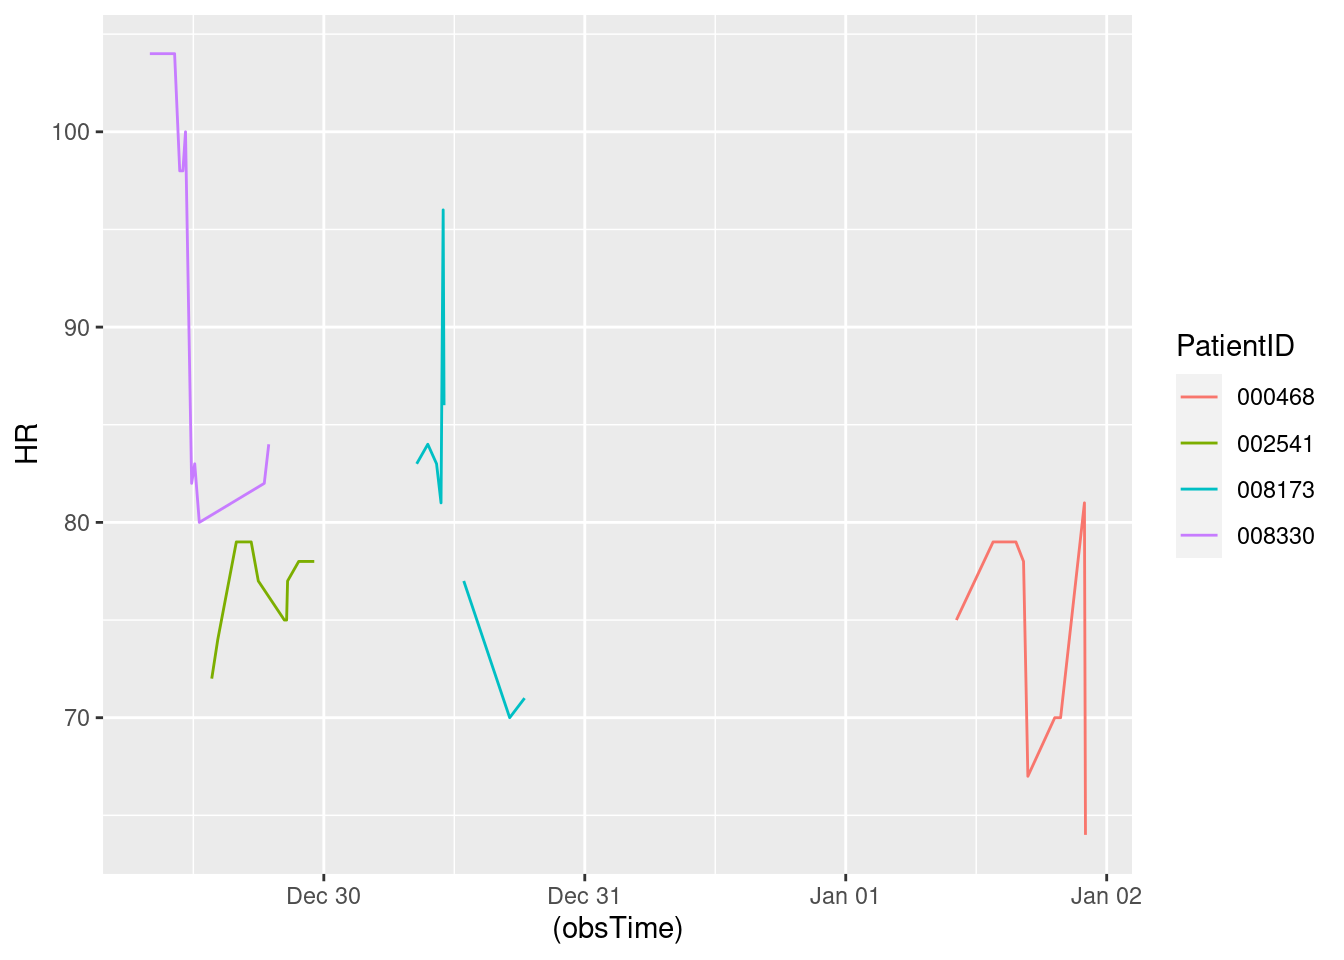
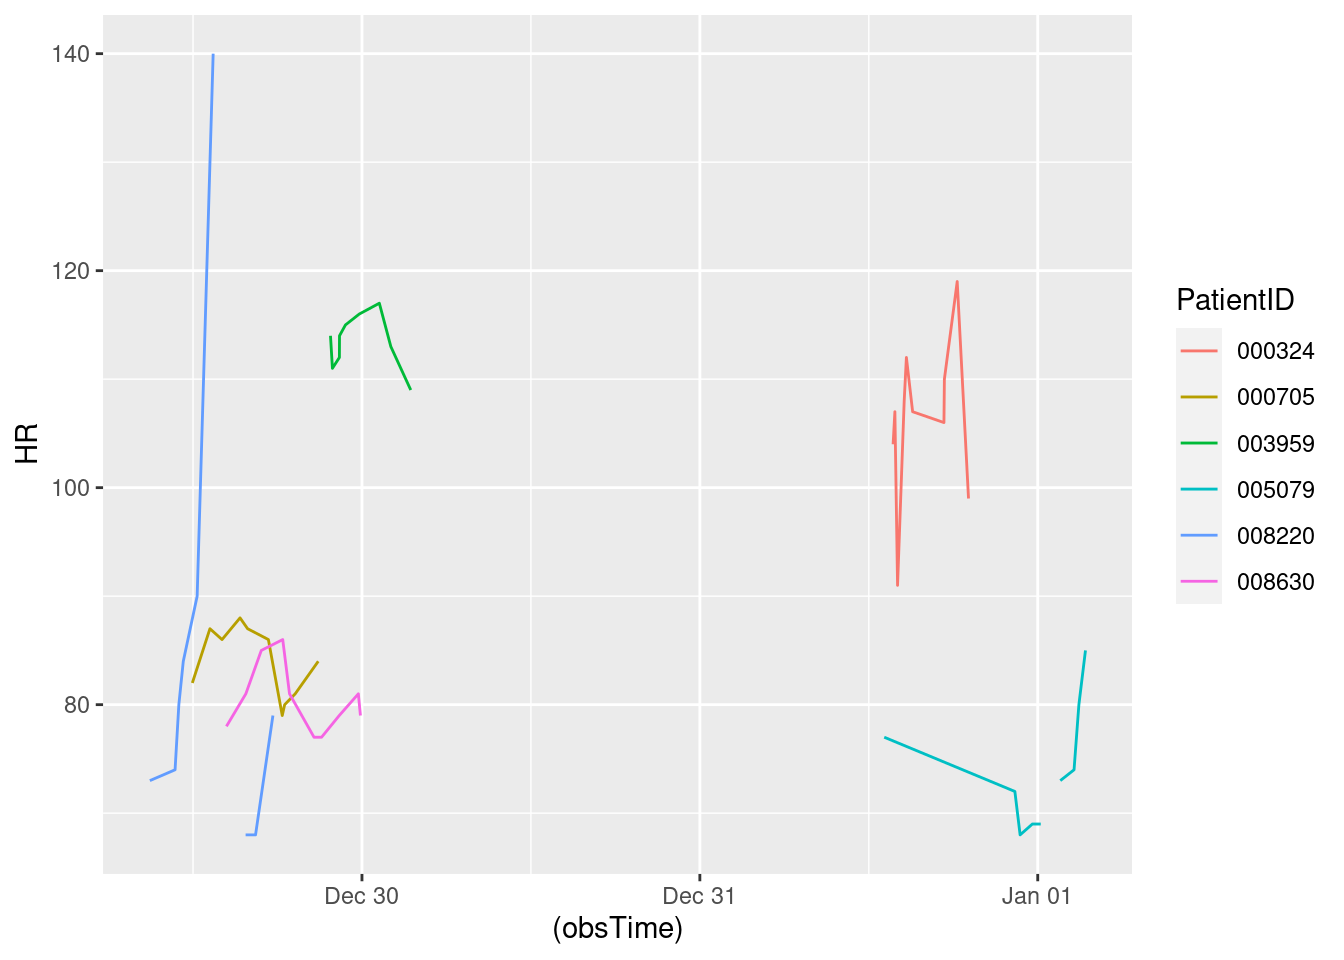
Updated report

diff --git a/HW7.html b/HW7.html
@@ -150,7 +150,7 @@ The following object is masked from 'package:purrr':
 </div>
 <div class="sourceCode cell-code" id="cb8"><pre class="sourceCode r code-with-copy"><code class="sourceCode r"><span id="cb8-1"><a href="#cb8-1" aria-hidden="true" tabindex="-1"></a><span class="fu">toc</span>()</span></code><button title="Copy to Clipboard" class="code-copy-button"><i class="bi"></i></button></pre></div>
 <div class="cell-output cell-output-stdout">
-<pre><code>3.19 sec elapsed</code></pre>
+<pre><code>2.87 sec elapsed</code></pre>
 </div>
 <div class="sourceCode cell-code" id="cb10"><pre class="sourceCode r code-with-copy"><code class="sourceCode r"><span id="cb10-1"><a href="#cb10-1" aria-hidden="true" tabindex="-1"></a><span class="fu">tic</span>()</span>
 <span id="cb10-2"><a href="#cb10-2" aria-hidden="true" tabindex="-1"></a>test1<span class="ot">=</span><span class="fu">makeSepsisDataset</span>(<span class="at">n=</span><span class="dv">50</span>,<span class="at">read_fn =</span> <span class="st">"read_delim"</span>)</span>
@@ -160,7 +160,7 @@ The following object is masked from 'package:purrr':
 </div>
 <div class="sourceCode cell-code" id="cb12"><pre class="sourceCode r code-with-copy"><code class="sourceCode r"><span id="cb12-1"><a href="#cb12-1" aria-hidden="true" tabindex="-1"></a><span class="fu">toc</span>()</span></code><button title="Copy to Clipboard" class="code-copy-button"><i class="bi"></i></button></pre></div>
 <div class="cell-output cell-output-stdout">
-<pre><code>12.054 sec elapsed</code></pre>
+<pre><code>13.229 sec elapsed</code></pre>
 </div>
 <div class="sourceCode cell-code" id="cb14"><pre class="sourceCode r code-with-copy"><code class="sourceCode r"><span id="cb14-1"><a href="#cb14-1" aria-hidden="true" tabindex="-1"></a><span class="fu">tic</span>()</span>
 <span id="cb14-2"><a href="#cb14-2" aria-hidden="true" tabindex="-1"></a>test1<span class="ot">=</span><span class="fu">makeSepsisDataset</span>(<span class="at">n=</span><span class="dv">100</span>,<span class="at">read_fn =</span> <span class="st">"fread"</span>)</span>
@@ -170,7 +170,7 @@ The following object is masked from 'package:purrr':
 </div>
 <div class="sourceCode cell-code" id="cb16"><pre class="sourceCode r code-with-copy"><code class="sourceCode r"><span id="cb16-1"><a href="#cb16-1" aria-hidden="true" tabindex="-1"></a><span class="fu">toc</span>()</span></code><button title="Copy to Clipboard" class="code-copy-button"><i class="bi"></i></button></pre></div>
 <div class="cell-output cell-output-stdout">
-<pre><code>5.241 sec elapsed</code></pre>
+<pre><code>4.938 sec elapsed</code></pre>
 </div>
 <div class="sourceCode cell-code" id="cb18"><pre class="sourceCode r code-with-copy"><code class="sourceCode r"><span id="cb18-1"><a href="#cb18-1" aria-hidden="true" tabindex="-1"></a><span class="fu">tic</span>()</span>
 <span id="cb18-2"><a href="#cb18-2" aria-hidden="true" tabindex="-1"></a>test1<span class="ot">=</span><span class="fu">makeSepsisDataset</span>(<span class="at">n=</span><span class="dv">100</span>,<span class="at">read_fn =</span> <span class="st">"read_delim"</span>)</span>
@@ -180,7 +180,7 @@ The following object is masked from 'package:purrr':
 </div>
 <div class="sourceCode cell-code" id="cb20"><pre class="sourceCode r code-with-copy"><code class="sourceCode r"><span id="cb20-1"><a href="#cb20-1" aria-hidden="true" tabindex="-1"></a><span class="fu">toc</span>()</span></code><button title="Copy to Clipboard" class="code-copy-button"><i class="bi"></i></button></pre></div>
 <div class="cell-output cell-output-stdout">
-<pre><code>18.99 sec elapsed</code></pre>
+<pre><code>17.567 sec elapsed</code></pre>
 </div>
 <div class="sourceCode cell-code" id="cb22"><pre class="sourceCode r code-with-copy"><code class="sourceCode r"><span id="cb22-1"><a href="#cb22-1" aria-hidden="true" tabindex="-1"></a><span class="fu">tic</span>()</span>
 <span id="cb22-2"><a href="#cb22-2" aria-hidden="true" tabindex="-1"></a>test1<span class="ot">=</span><span class="fu">makeSepsisDataset</span>(<span class="at">n=</span><span class="dv">500</span>,<span class="at">read_fn =</span> <span class="st">"fread"</span>)</span>
@@ -190,7 +190,7 @@ The following object is masked from 'package:purrr':
 </div>
 <div class="sourceCode cell-code" id="cb24"><pre class="sourceCode r code-with-copy"><code class="sourceCode r"><span id="cb24-1"><a href="#cb24-1" aria-hidden="true" tabindex="-1"></a><span class="fu">toc</span>()</span></code><button title="Copy to Clipboard" class="code-copy-button"><i class="bi"></i></button></pre></div>
 <div class="cell-output cell-output-stdout">
-<pre><code>26.018 sec elapsed</code></pre>
+<pre><code>24.316 sec elapsed</code></pre>
 </div>
 <div class="sourceCode cell-code" id="cb26"><pre class="sourceCode r code-with-copy"><code class="sourceCode r"><span id="cb26-1"><a href="#cb26-1" aria-hidden="true" tabindex="-1"></a><span class="fu">tic</span>()</span>
 <span id="cb26-2"><a href="#cb26-2" aria-hidden="true" tabindex="-1"></a>test1<span class="ot">=</span><span class="fu">makeSepsisDataset</span>(<span class="at">n=</span><span class="dv">500</span>,<span class="at">read_fn =</span> <span class="st">"read_delim"</span>)</span>
@@ -200,7 +200,7 @@ The following object is masked from 'package:purrr':
 </div>
 <div class="sourceCode cell-code" id="cb28"><pre class="sourceCode r code-with-copy"><code class="sourceCode r"><span id="cb28-1"><a href="#cb28-1" aria-hidden="true" tabindex="-1"></a><span class="fu">toc</span>()</span></code><button title="Copy to Clipboard" class="code-copy-button"><i class="bi"></i></button></pre></div>
 <div class="cell-output cell-output-stdout">
-<pre><code>90.663 sec elapsed</code></pre>
+<pre><code>87.097 sec elapsed</code></pre>
 </div>
 </div>
 <p>Problem 3: Speed reading</p>
@@ -242,7 +242,7 @@ dttm (1): obsTime
 <div class="sourceCode cell-code" id="cb35"><pre class="sourceCode r code-with-copy"><code class="sourceCode r"><span id="cb35-1"><a href="#cb35-1" aria-hidden="true" tabindex="-1"></a><span class="co">#Sys.Date()</span></span>
 <span id="cb35-2"><a href="#cb35-2" aria-hidden="true" tabindex="-1"></a><span class="fu">Sys.time</span>()</span></code><button title="Copy to Clipboard" class="code-copy-button"><i class="bi"></i></button></pre></div>
 <div class="cell-output cell-output-stdout">
-<pre><code>[1] "2023-12-29 04:23:33 UTC"</code></pre>
+<pre><code>[1] "2023-12-29 05:19:42 UTC"</code></pre>
 </div>
 <div class="sourceCode cell-code" id="cb37"><pre class="sourceCode r code-with-copy"><code class="sourceCode r"><span id="cb37-1"><a href="#cb37-1" aria-hidden="true" tabindex="-1"></a>dfnew<span class="ot">=</span>df <span class="sc">%&gt;%</span><span class="fu">subset</span>(SepsisLabel<span class="sc">==</span><span class="dv">1</span>)</span>
 <span id="cb37-2"><a href="#cb37-2" aria-hidden="true" tabindex="-1"></a></span>
@@ -257,14 +257,16 @@ dttm (1): obsTime
 <span id="cb37-11"><a href="#cb37-11" aria-hidden="true" tabindex="-1"></a></span>
 <span id="cb37-12"><a href="#cb37-12" aria-hidden="true" tabindex="-1"></a><span class="fu">print</span>(res)</span></code><button title="Copy to Clipboard" class="code-copy-button"><i class="bi"></i></button></pre></div>
 <div class="cell-output cell-output-stdout">
-<pre><code># A tibble: 4 × 7
-# Groups:   PatientID [4]
+<pre><code># A tibble: 6 × 7
+# Groups:   PatientID [6]
   PatientID ICULOS    HR  Temp  Resp SepsisLabel obsTime            
   &lt;chr&gt;      &lt;int&gt; &lt;int&gt; &lt;dbl&gt; &lt;int&gt;       &lt;int&gt; &lt;dttm&gt;             
-1 000468        90    64    NA    22           1 2024-01-01 22:02:50
-2 002541        19    78    NA    18           1 2023-12-29 23:07:18
-3 008173        39    71    NA    20           1 2023-12-30 18:27:47
-4 008330        16    84    NA    18           1 2023-12-29 18:56:10</code></pre>
+1 000324        62    99  NA      27           1 2023-12-31 19:04:59
+2 000705        16    84  37.6    22           1 2023-12-29 20:53:42
+3 003959        24   109  NA      NA           1 2023-12-30 03:27:55
+4 005079        71    85  NA      13           1 2024-01-01 03:23:24
+5 008220        14    79  NA      12           1 2023-12-29 17:40:28
+6 008630        19    79  37.2    24           1 2023-12-29 23:53:25</code></pre>
 </div>
 </div>
 <div class="cell">
